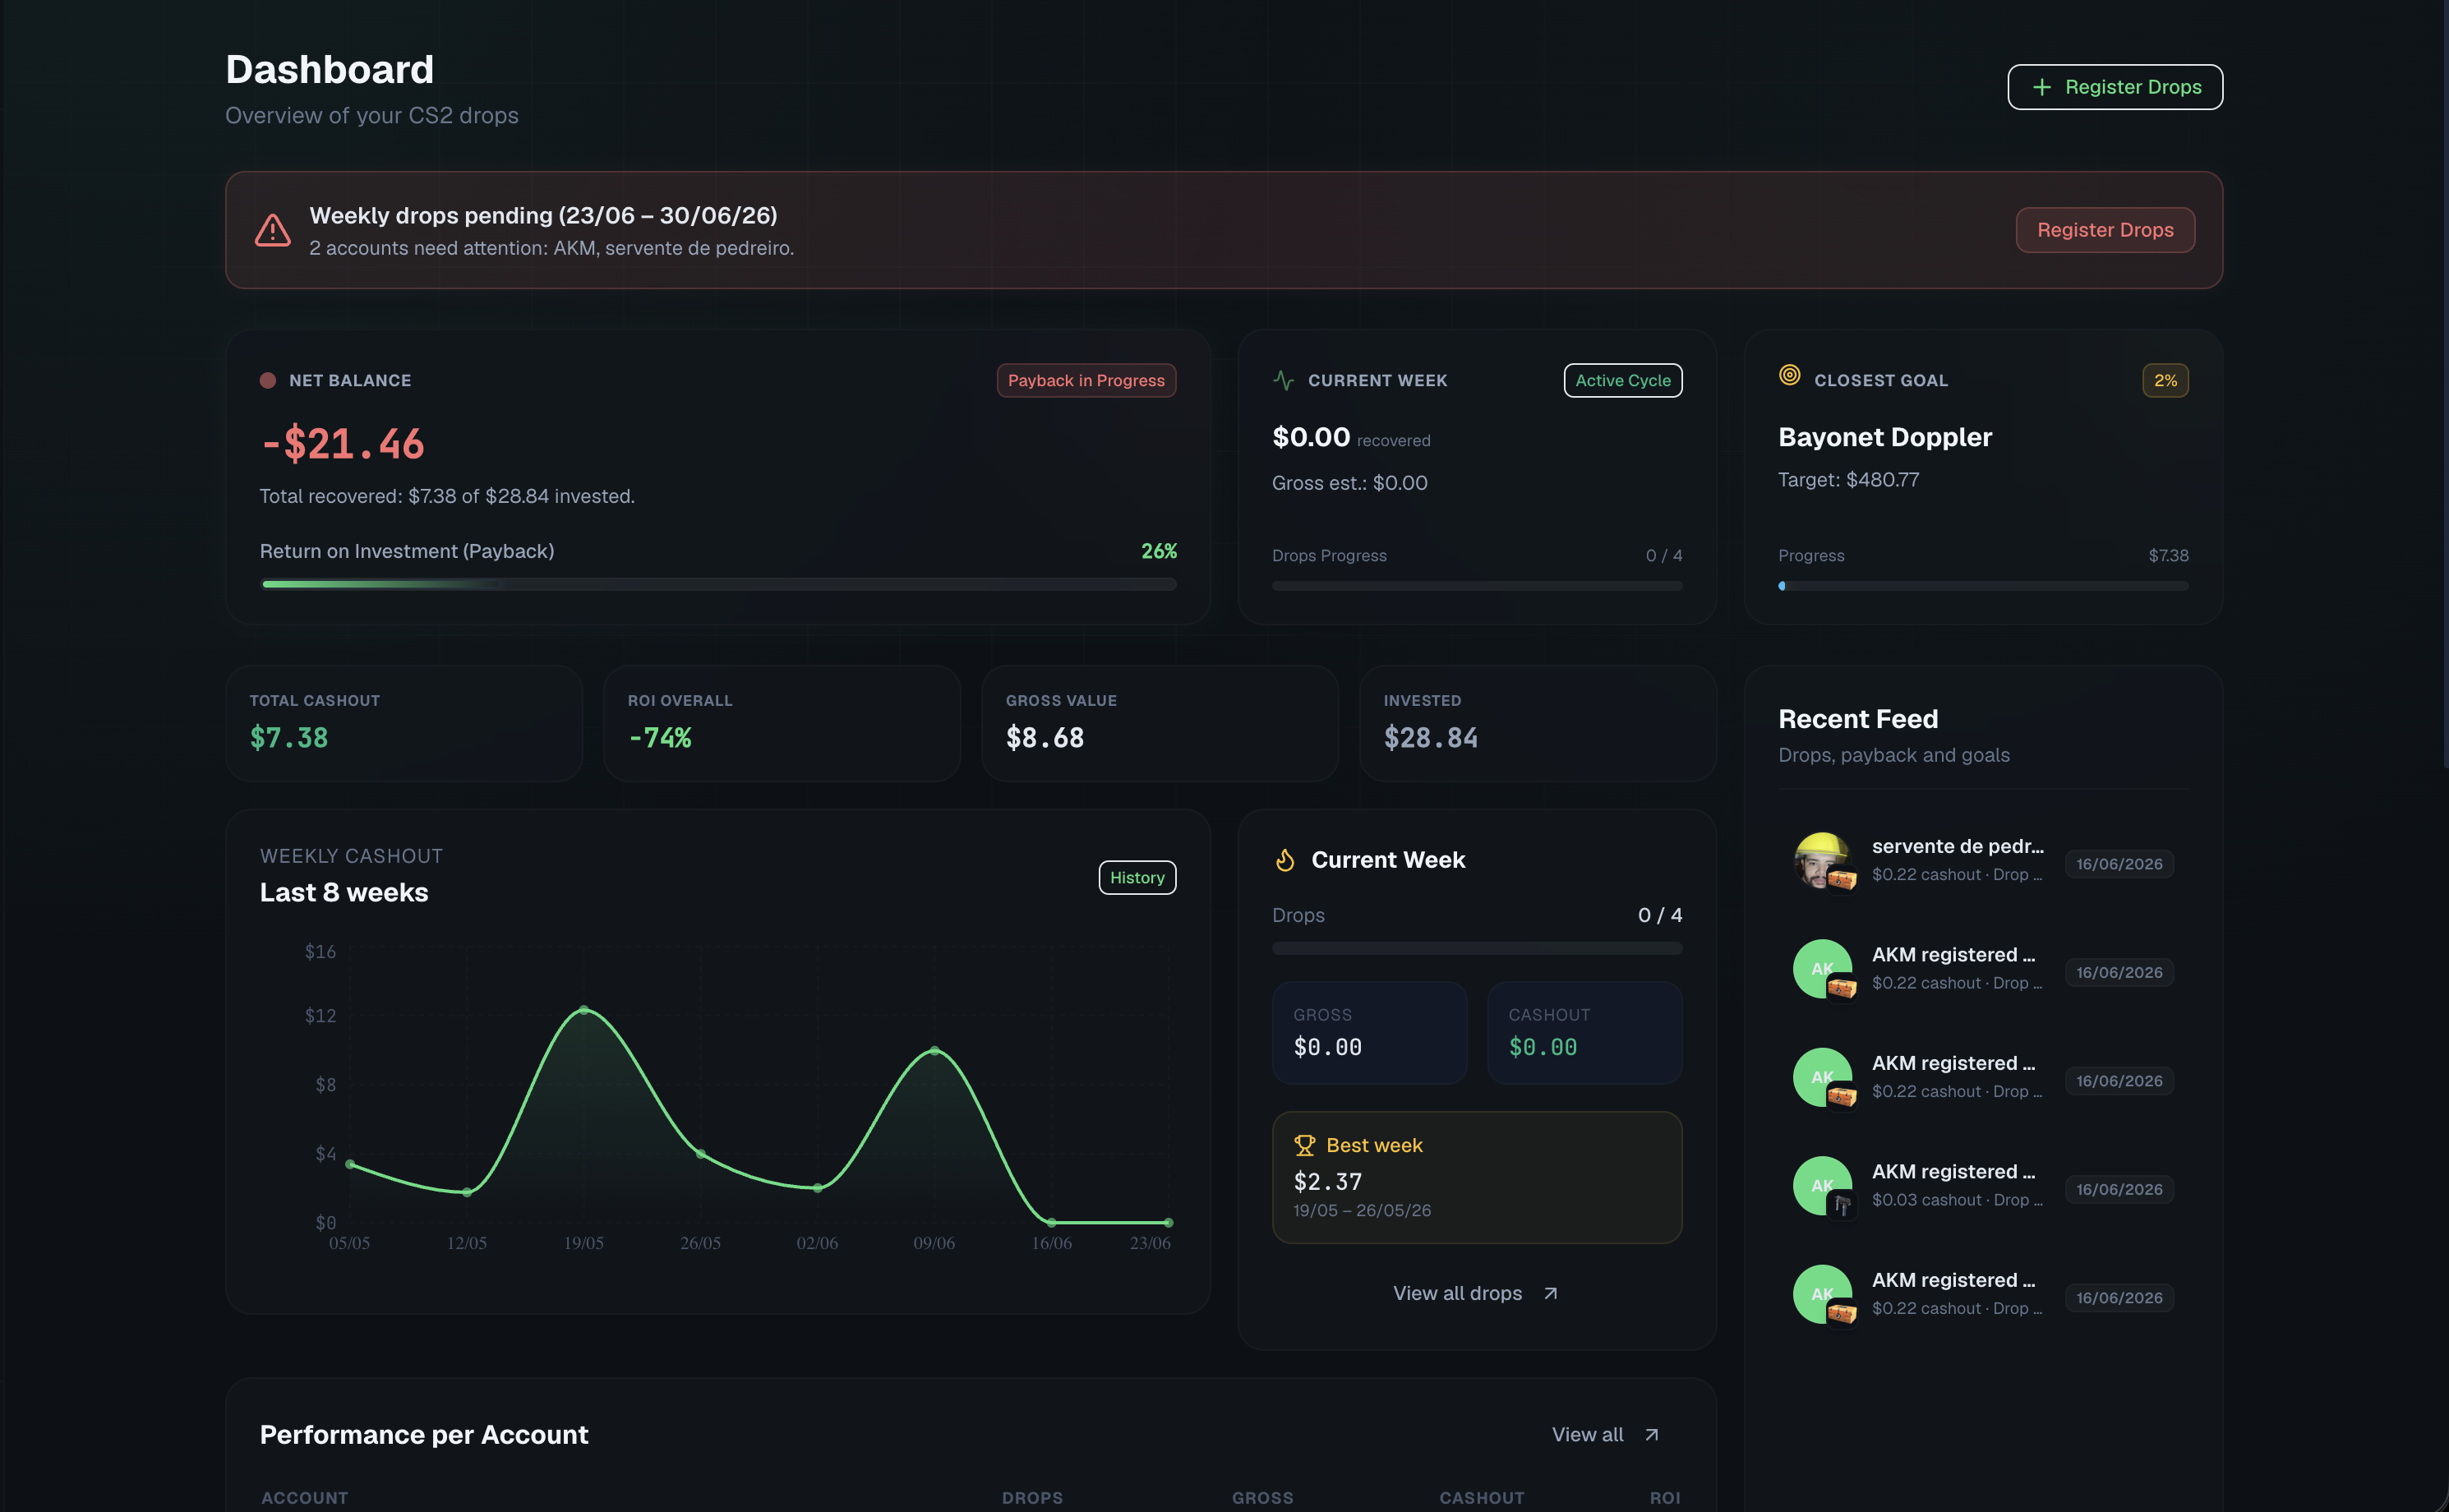
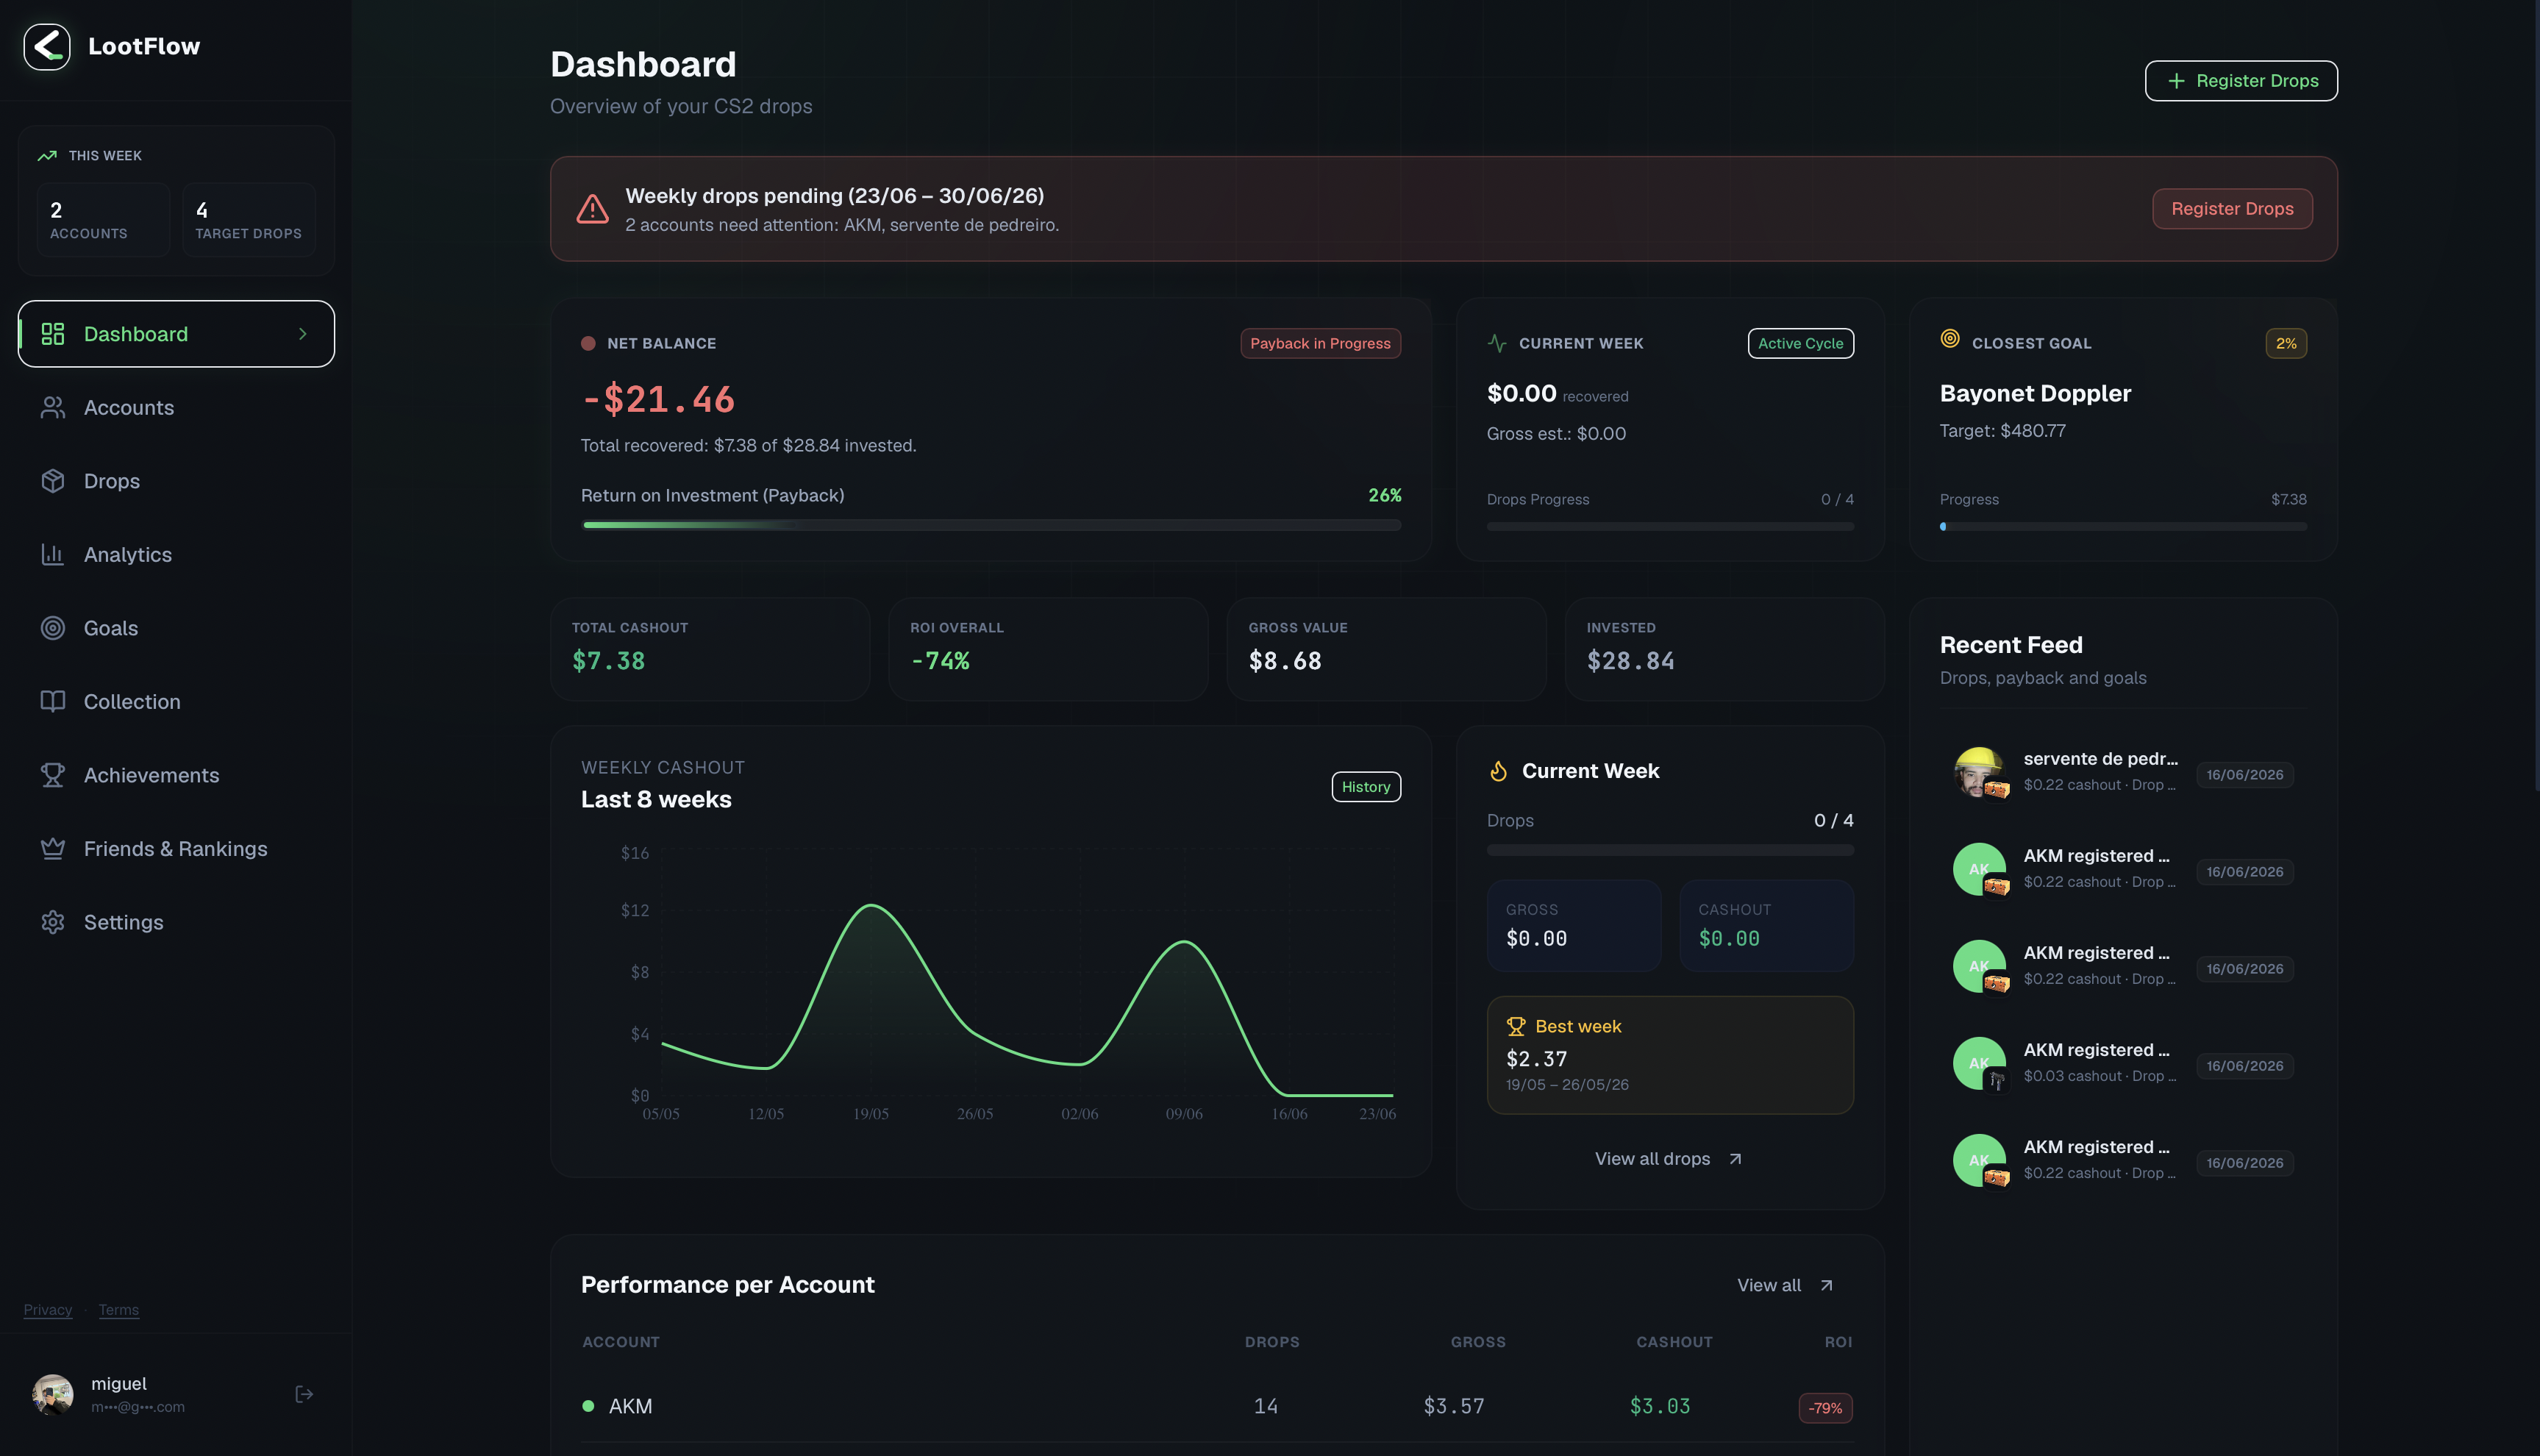
feat: gamification off by default, add BETA label, update EN screenshot

diff --git a/src/lib/storage.ts b/src/lib/storage.ts
@@ -131,7 +131,7 @@ export const DEFAULT_SETTINGS: AppSettings = {
     sidebarCompact: false,
   },
   showOnboarding: true,
-  liteMode: false,
+  liteMode: true,
   profilePrivacy: 'private',
   privacy: {
     hideProfile: true,
@@ -143,17 +143,17 @@ export const DEFAULT_SETTINGS: AppSettings = {
     hideHistory: true,
   },
   gamification: {
-    showInsights: true,
-    showHeatmap: true,
+    showInsights: false,
+    showHeatmap: false,
     showTimeline: false,
-    showAchievements: true,
-    showHallOfFame: true,
-    showPerfectWeek: true,
-    showLevels: true,
-    showTitles: true,
-    showRankings: true,
-    showCollection: true,
-    showCaseTracker: true,
+    showAchievements: false,
+    showHallOfFame: false,
+    showPerfectWeek: false,
+    showLevels: false,
+    showTitles: false,
+    showRankings: false,
+    showCollection: false,
+    showCaseTracker: false,
   },
 }
 
@@ -199,8 +199,6 @@ function loadSettings(): AppSettings {
     gamification: { ...DEFAULT_SETTINGS.gamification, ...(saved.gamification ?? {}) } as any,
     privacy: { ...DEFAULT_SETTINGS.privacy, ...(saved.privacy ?? {}) },
   }
-  // Rankings são padrão; a opção antiga fica habilitada apenas por compatibilidade.
-  merged.gamification!.showRankings = true
   // Migrate old cyan default → green to match new design system
   if (merged.theme.primaryColor === '#38bdf8') merged.theme.primaryColor = '#10b981'
   if (merged.theme.accentColor === '#4ade80') merged.theme.accentColor = '#10b981'

diff --git a/src/pages/Settings.tsx b/src/pages/Settings.tsx
@@ -1168,7 +1168,7 @@ export default function Settings() {
                           : 'border-white/[0.025] bg-[#111827]/60 text-slate-400 hover:text-slate-200'
                       }`}
                     >
-                      <p className="text-sm font-semibold">{t('settings.gamification_full')}</p>
+                      <p className="text-sm font-semibold">{t('settings.gamification_full')} <span className="text-xs font-bold text-amber-400">(BETA)</span></p>
                       <p className="mt-1 text-xs text-slate-500">{t('settings.gamification_full_hint')}</p>
                     </button>
                     <button